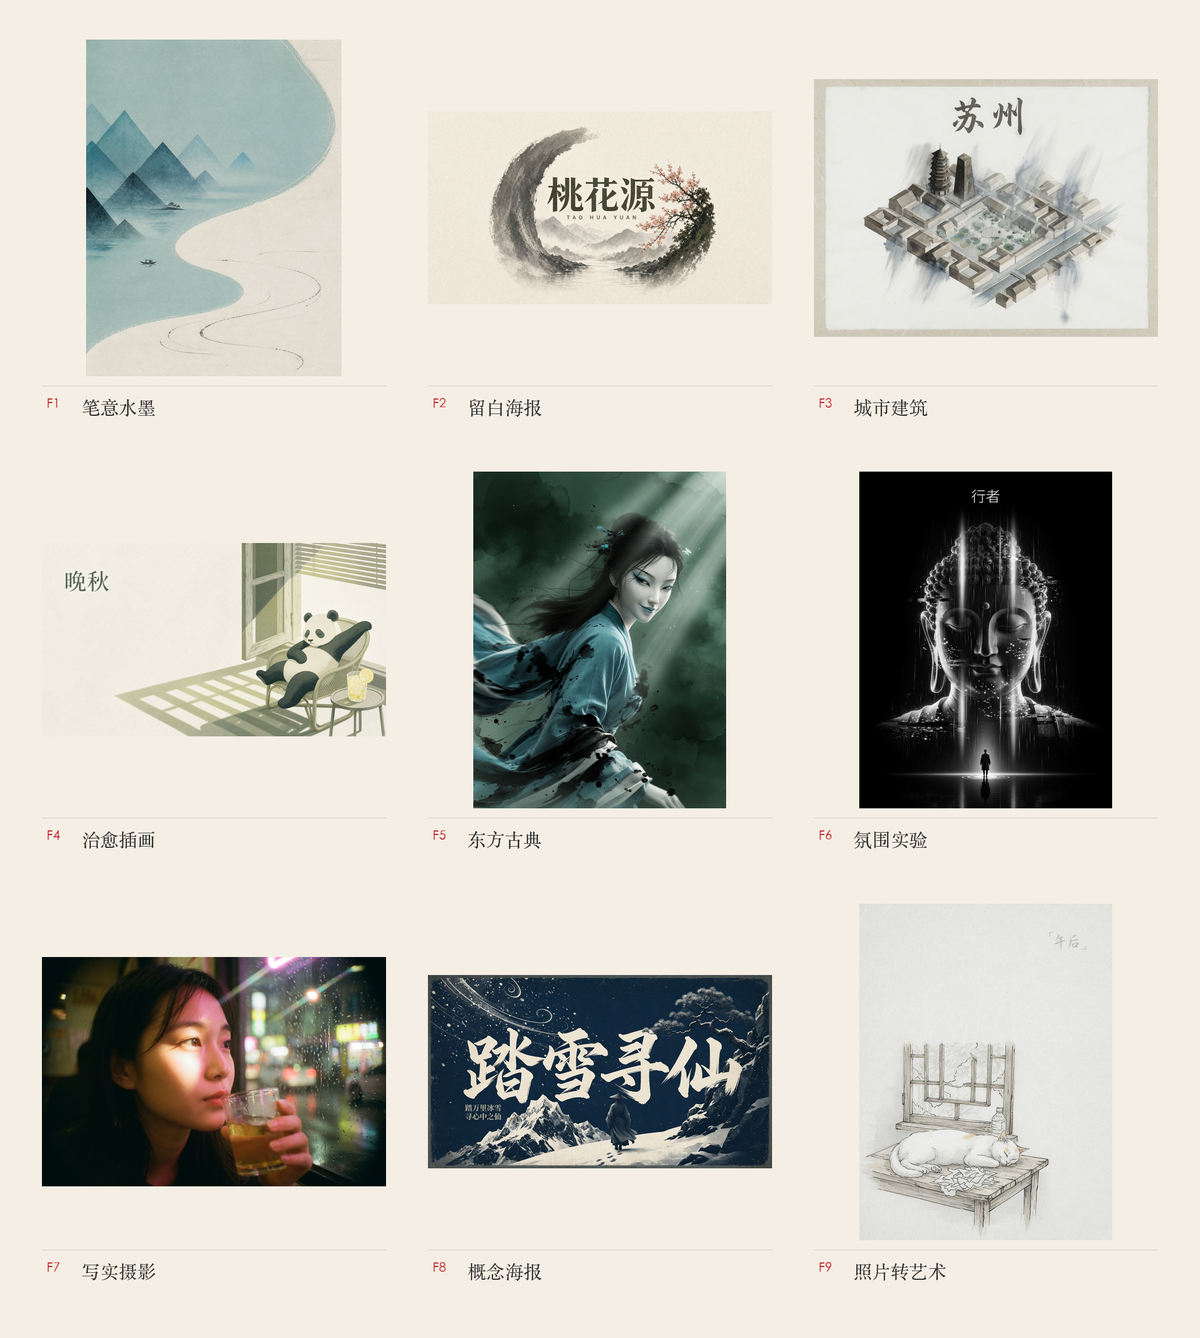
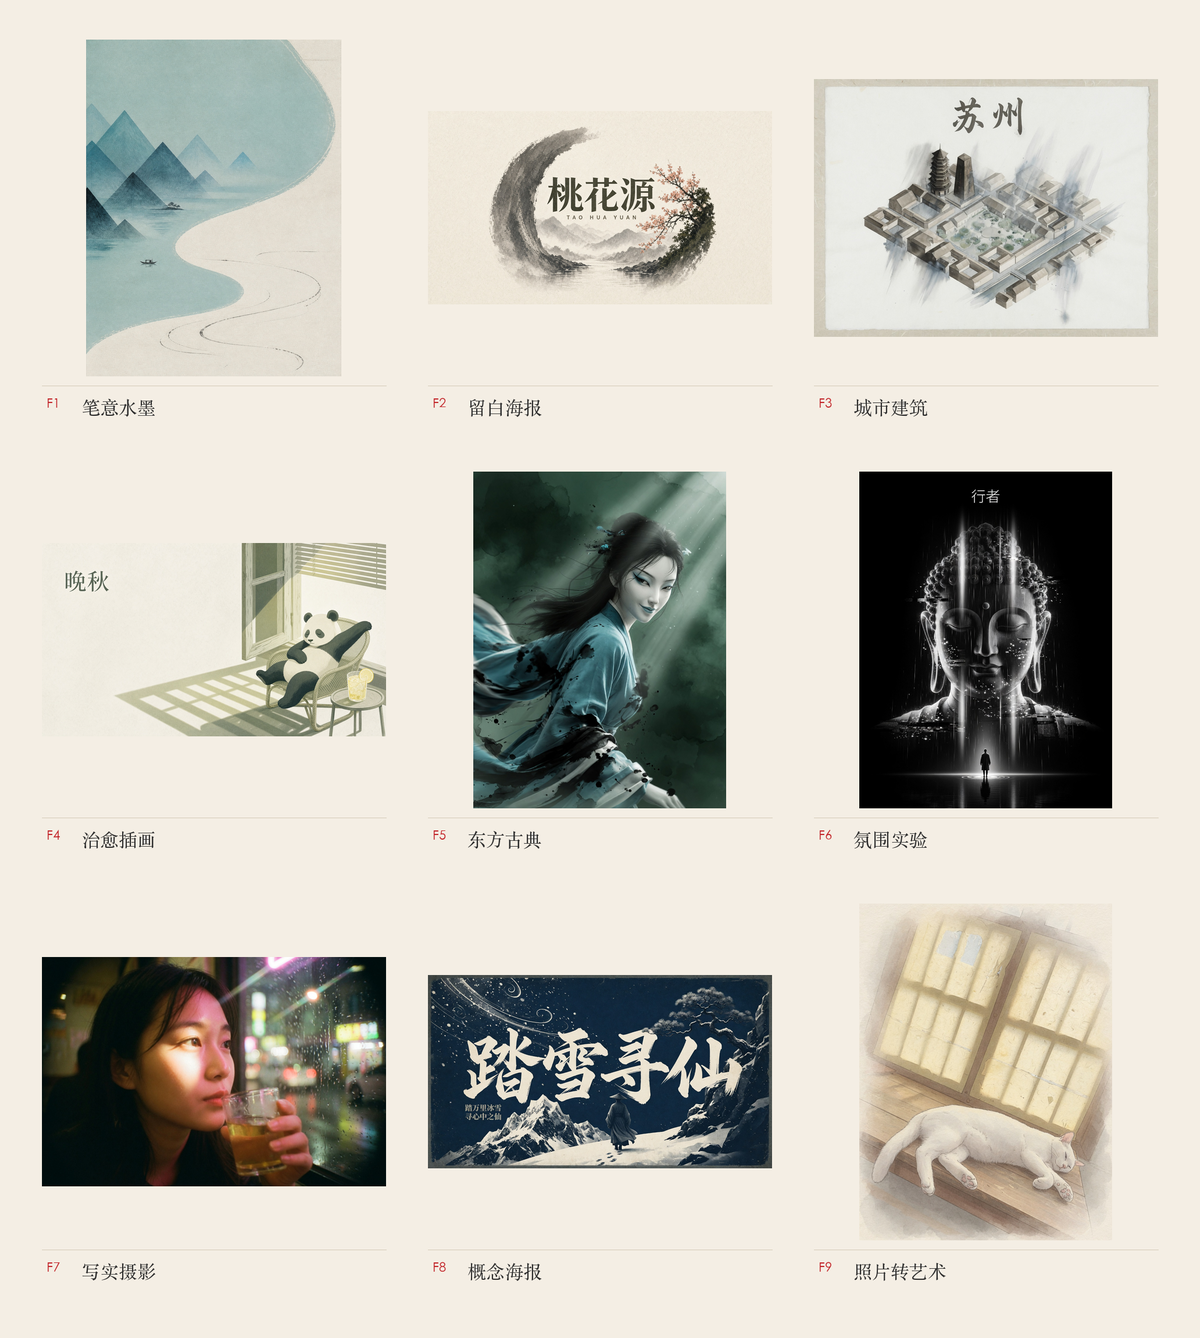
九宫格 F9 换成绘本风成图
照片转艺术改用手绘绘本页，去掉标题和蜡笔。

Changed region(s): [[0.7092, 0.6741, 0.925, 0.9499]]

diff --git a/gallery/README.md b/gallery/README.md
@@ -36,6 +36,6 @@
 
 ![F8 概念海报 · 踏雪寻仙](./f8-concept.jpg)
 
-## F9 照片转艺术 · 午后
+## F9 照片转艺术 · 绘本
 
-![F9 照片转艺术 · 午后](./f9-photo-art.jpg)
+![F9 照片转艺术 · 绘本](./f9-photo-art.jpg)
